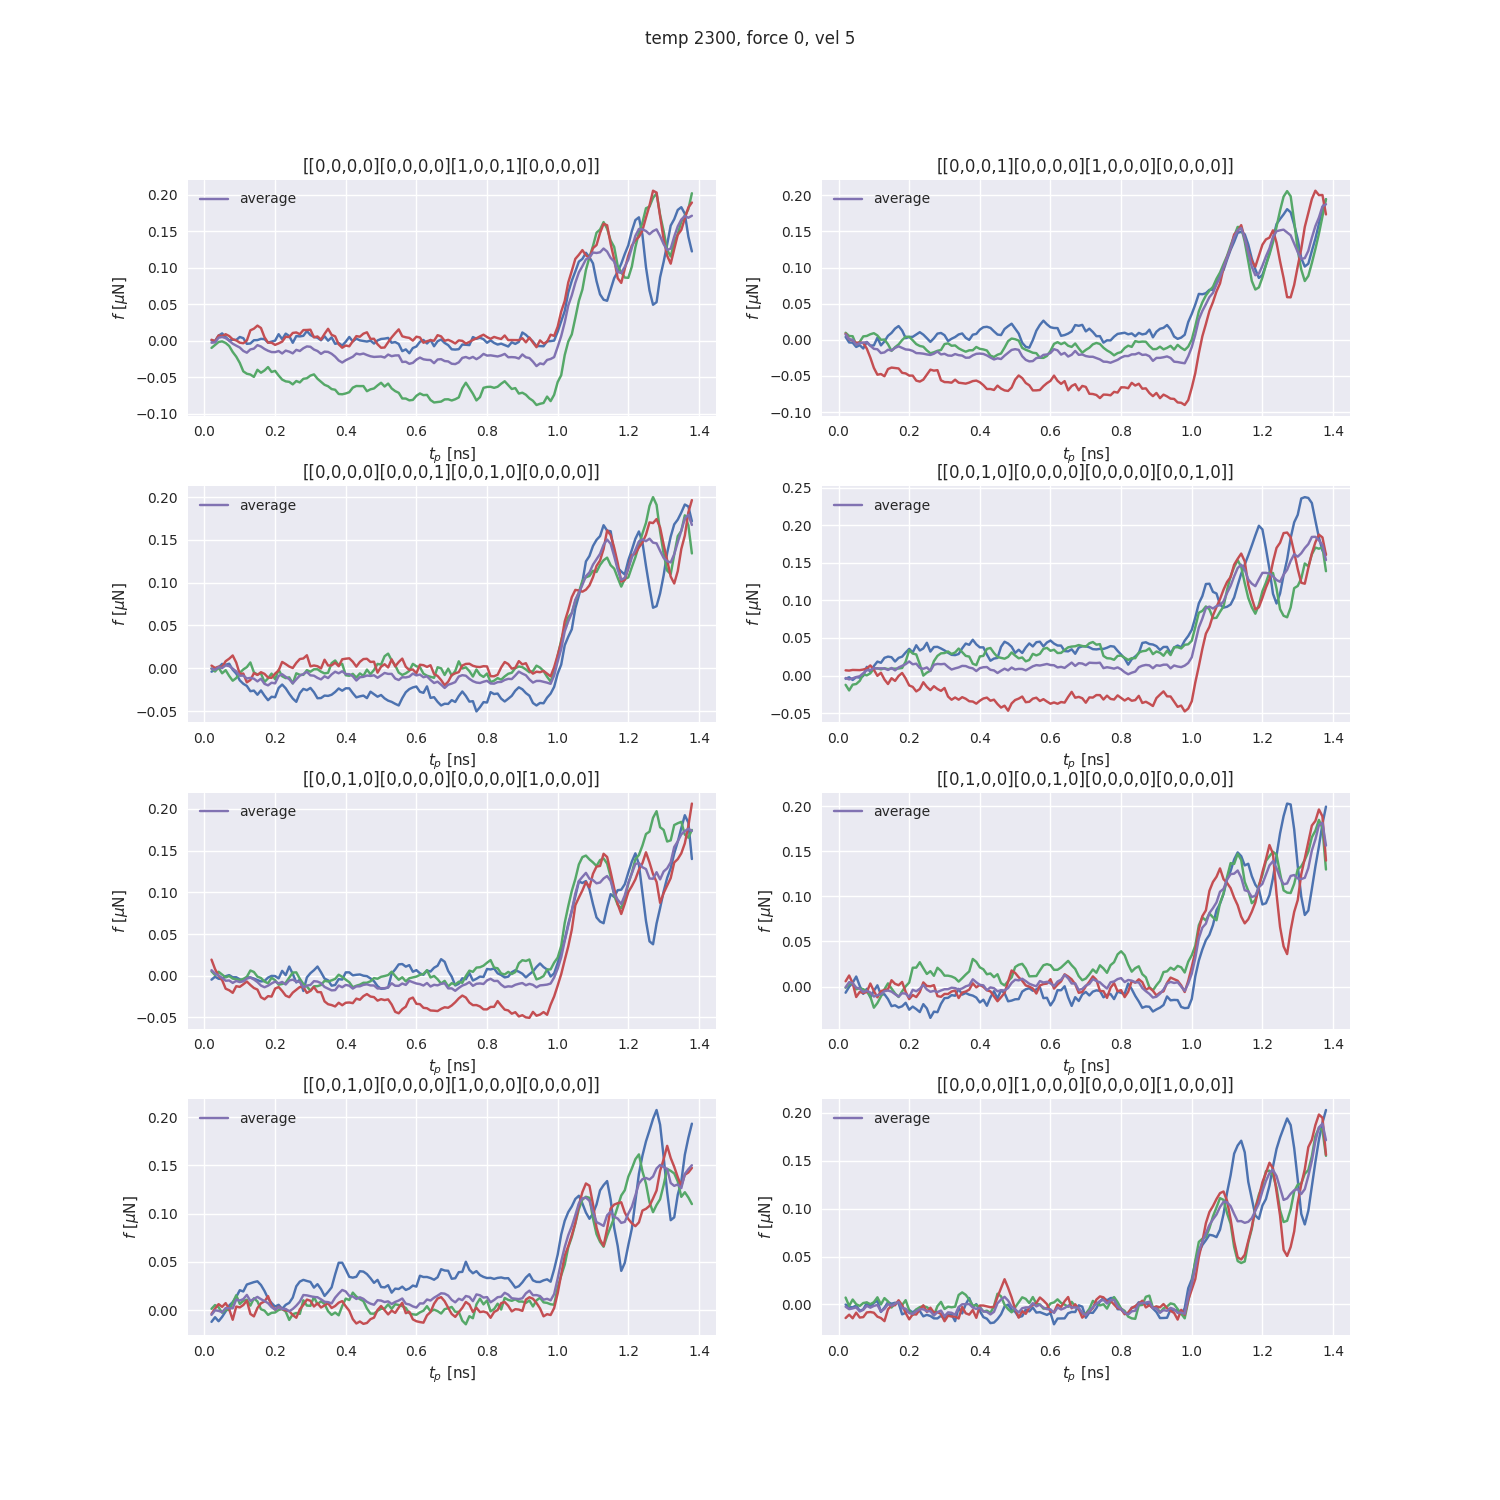
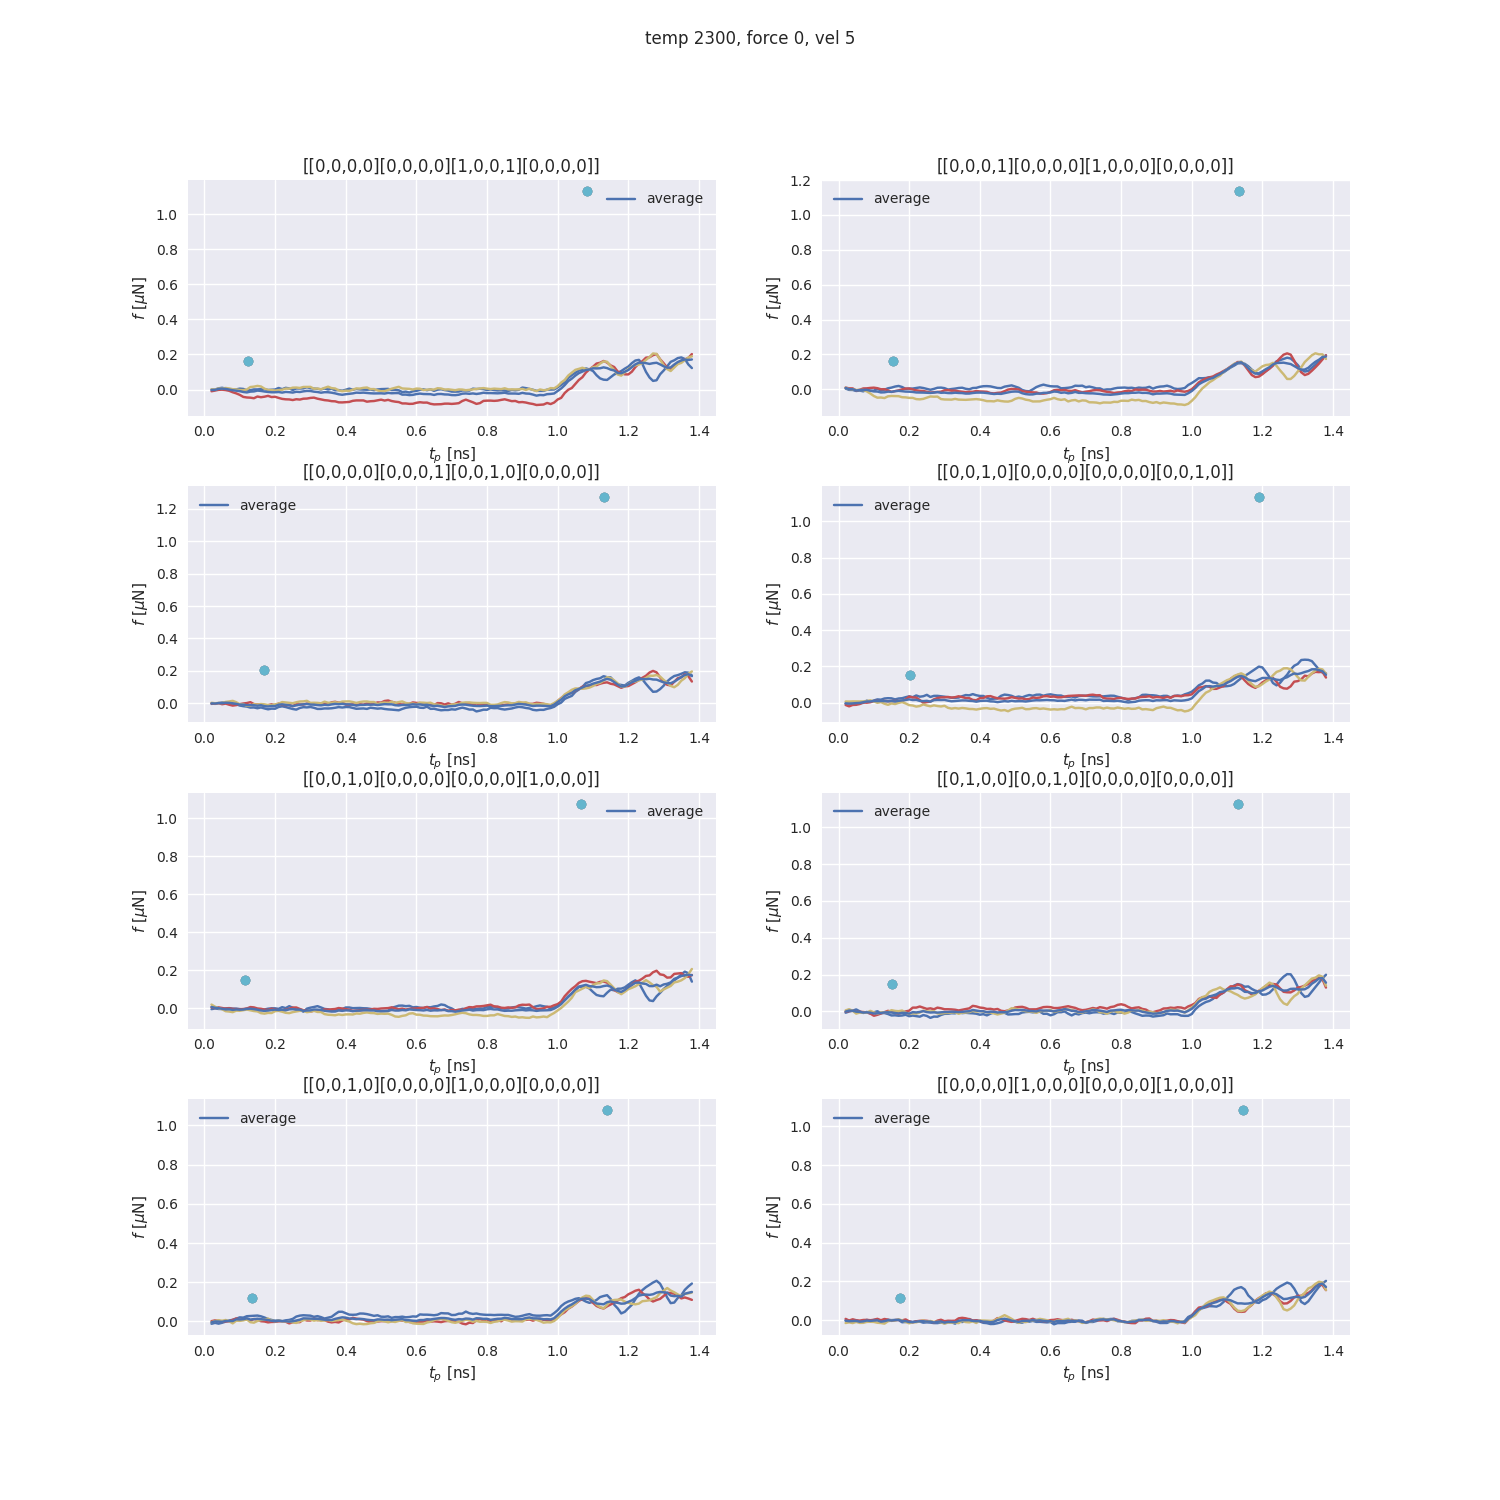
axis 0 for mean max static

diff --git a/python/plot/plot_load_curves.py b/python/plot/plot_load_curves.py
@@ -68,7 +68,7 @@ def load_max_static(temp, vel, force, asperities, orientation, grid, template_lc
             time, ms = loadtxt(file)
             ms_all.append((time,ms))
 
-    mean_static = mean(ms_all, axis = 1)
+    mean_static = mean(ms_all, axis = 0)
     return ms_all , mean_static
 
 
@@ -396,10 +396,10 @@ def plot_production(temp, vel, force, uc, asperities, time, orientation, grid, e
 
         #for curve in load_curves_all: #NOTE aux dict had issues, can be used for later
         #    axs[i].plot(curve[:,0], curve[:,1])
-        
+        print('ms all, ms mean ', ms_all, ms_mean) 
         for load_curve in load_curves_all:
             axs[i].plot(load_curve[:,0], load_curve[:,1])
-            #axs[i].plot(ms_all[0], ms_all[1], 'o') #this is just proprietary
+            axs[i].plot(ms_all[0], ms_all[1], 'o') #this is just proprietary
 
         print('mean load curves shape: ',load_curves_mean.shape)
         print('all load curves shape: ',load_curves_all.shape)
